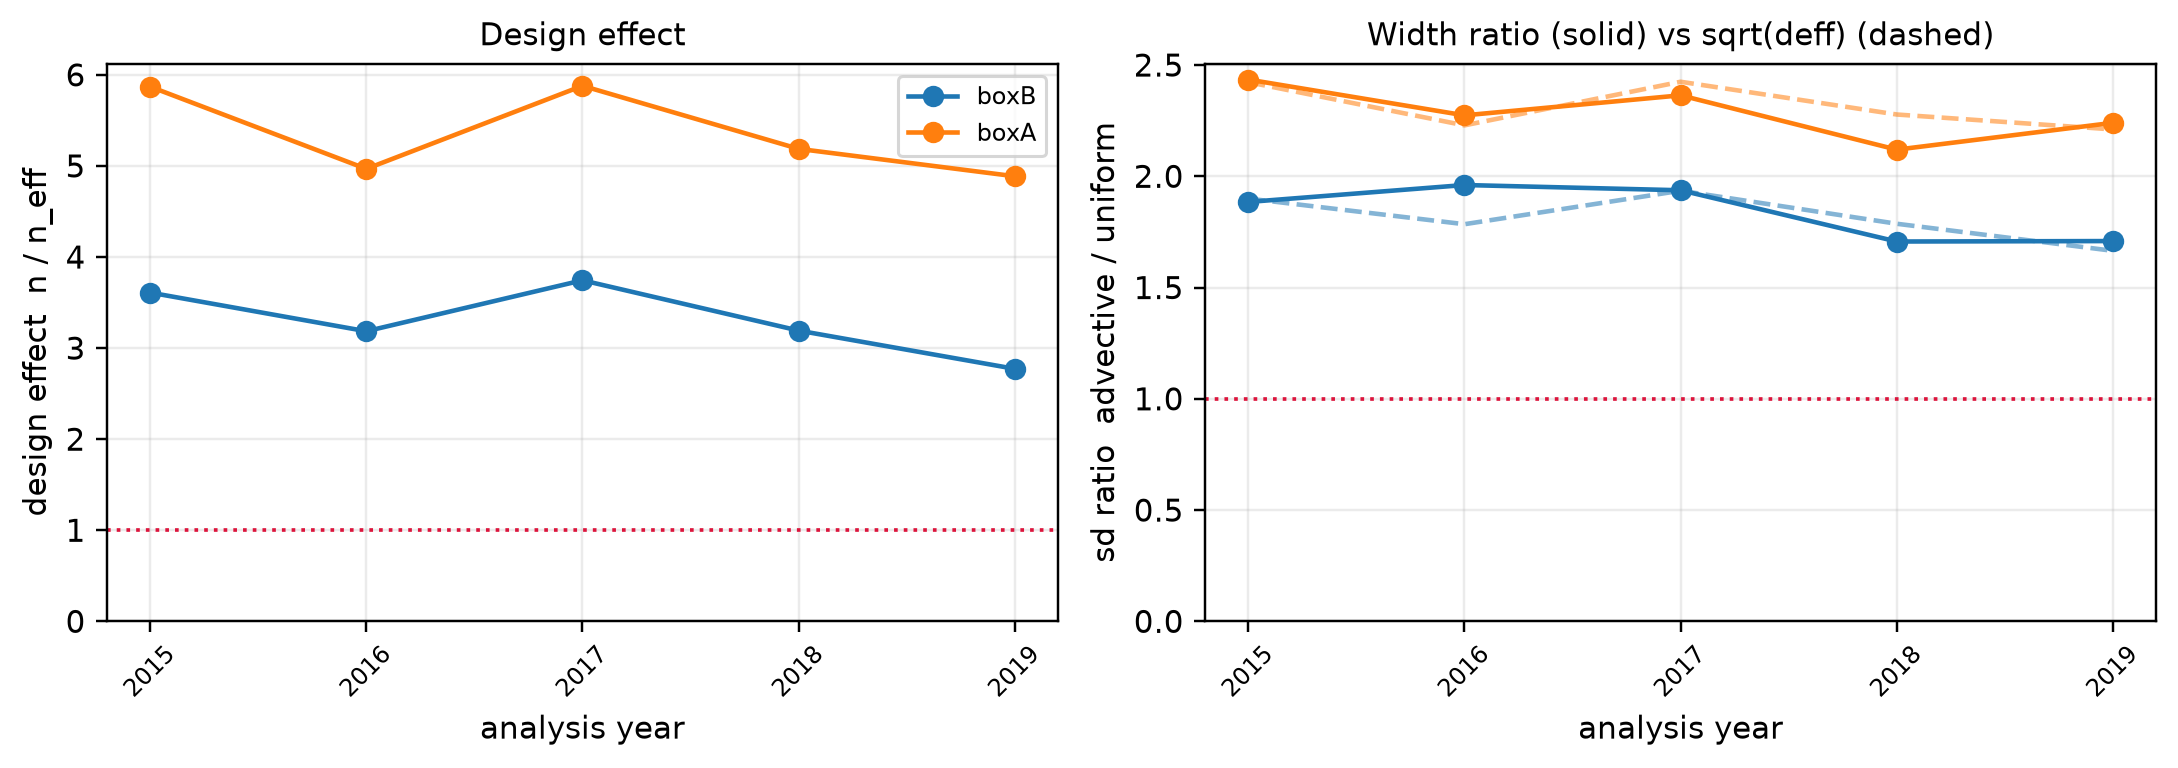
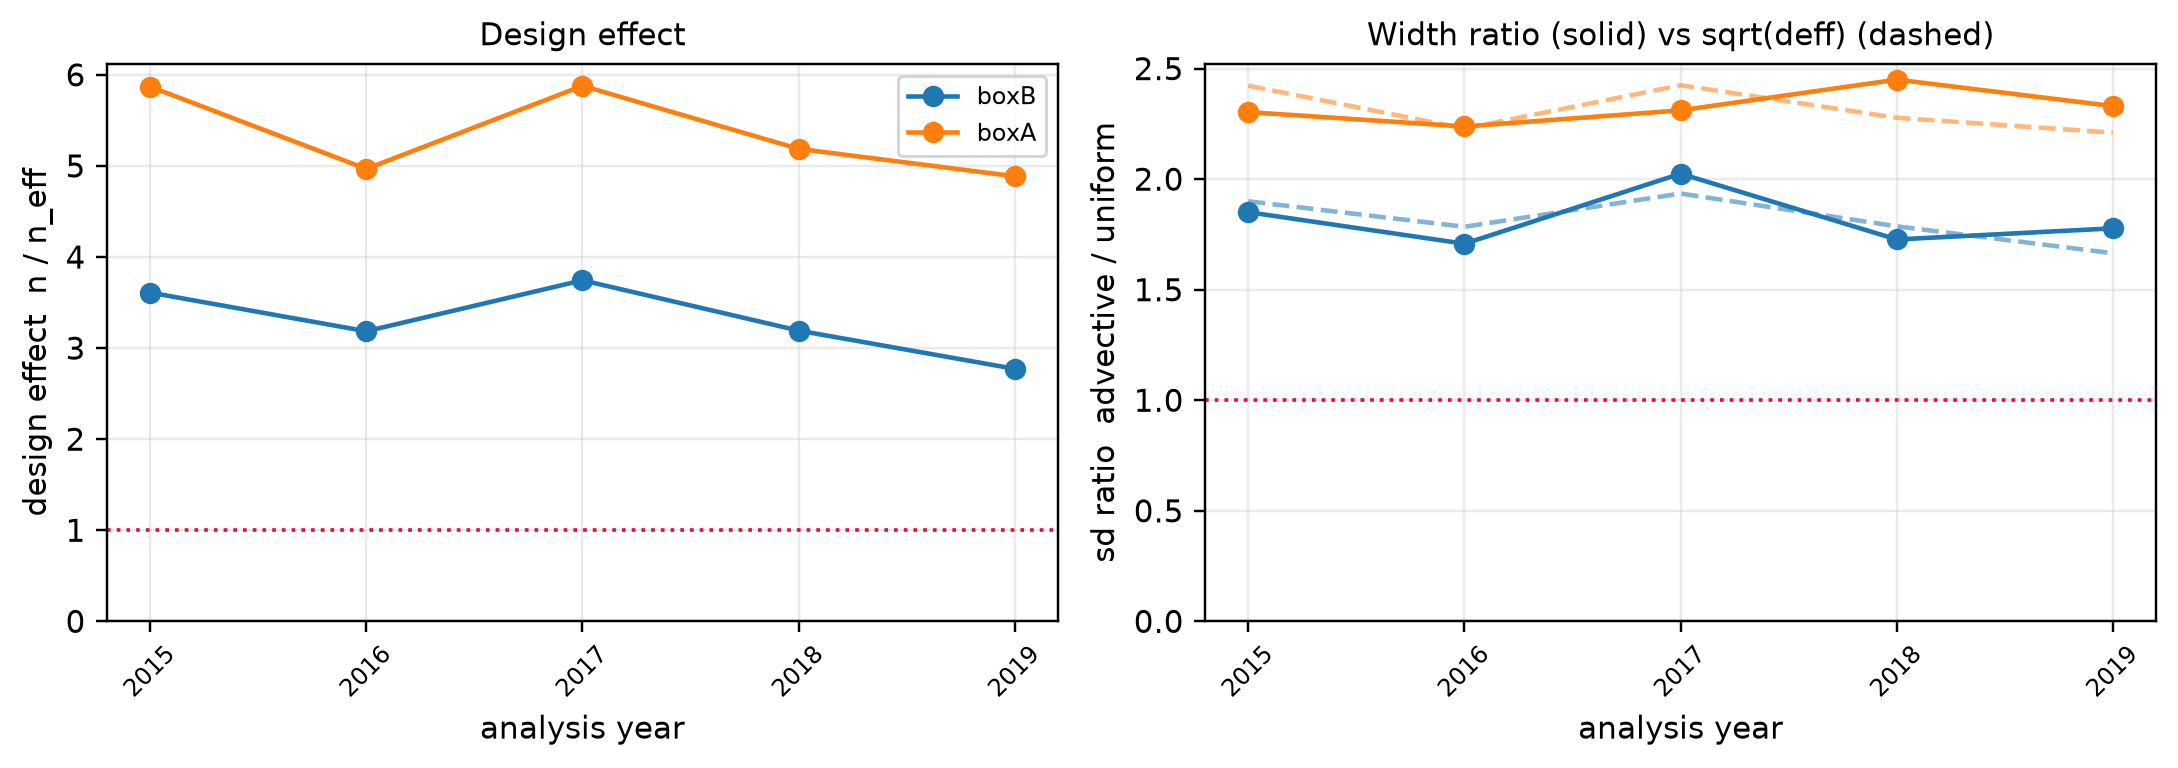
report: large n-matched uniform null so its 95% CI covers zero
The uniform reference was only 100 draws (one per advective rep), so its
per-year mean was a noisy estimate of zero that could land >1.96 se out by
its own MC noise. Add uniform_reference_ensemble: 2000 n-matched iid draws
from P per box-year (median n), a precise-zero null whose 95% CI covers
zero every year, with its 5-95% still the single-deployment scatter.

Thread this ref through the bias-interval chart, both bias tables, the
bias histograms, and the design-effect width ratio, and reword the
reference prose (Deployment, headline, sampling-bias) accordingly. The
100-realization limit now applies only to the advective side, where
resolution actually is limited.

diff --git a/code/osse/mean_mc.py b/code/osse/mean_mc.py
@@ -1880,12 +1880,18 @@ def _sd_Z(box):
     return pd.read_csv(os.path.join(cfg.OUT_DIR, f"domain_means_{box}.csv")).set_index("year")["sd_Z"]
 
 
-def continuous_bias_table(est, box):
-    """Per-year bias distribution over realizations, with the U-full null alongside."""
+def continuous_bias_table(est, box, ref=None):
+    """Per-year advective bias distribution, with the uniform-null mean alongside.
+
+    The `uniform mean B` column is the mean of the large `ref` ensemble when given,
+    else the aligned per-rep B_unif in `est`.
+    """
     sd = _sd_Z(box)
     rows = []
     for k, gk in est[est["box"] == box].groupby("year"):
         b = gk["B"].to_numpy()
+        um = (ref[(ref["box"] == box) & (ref["year"] == k)]["B_unif"].mean()
+              if ref is not None else gk["B_unif"].mean())
         rows.append({"year": int(k), "reps": b.size,
                      "mean B": b.mean() * J_TO_GJ,
                      "MC se": b.std(ddof=1) / np.sqrt(b.size) * J_TO_GJ,
@@ -1894,7 +1900,7 @@ def continuous_bias_table(est, box):
                      "95%": np.percentile(b, 95) * J_TO_GJ,
                      "P(B < 0)": float((b < 0).mean()),
                      "mean B / sd_k": b.mean() / sd[int(k)],
-                     "uniform mean B": gk["B_unif"].mean() * J_TO_GJ})
+                     "uniform mean B": um * J_TO_GJ})
     return pd.DataFrame(rows)
 
 
@@ -1931,6 +1937,31 @@ def continuous_nsize_table(est, boxes=("boxB", "boxA")):
     return pd.DataFrame(rows)
 
 
+def uniform_reference_ensemble(est, R=2000, seed=0):
+    """Large n-matched uniform null: R iid draws from P per (box, year), each at the
+    median advective sample size for that cell. E[B]=0, so the ensemble mean is a
+    precise zero reference (its 95% CI covers zero) and its 5-95% spread is the
+    single-deployment scatter of a uniform array. Returns box, year, B_unif (R rows
+    per group). Decoupled from the 100 advective reps, which are limited by the
+    advection cost; the null is not.
+    """
+    rng = np.random.default_rng(seed)
+    rows = []
+    for box in sorted(est["box"].unique()):
+        zf, wet, w = load_field(box)
+        yidx = {y: j for j, y in enumerate(_field_years(box))}
+        zbar = domain_means(zf, wet, w)[0].set_index("year")["zbar"]
+        cw = np.cumsum(w)
+        g = est[est["box"] == box]
+        for y in sorted(int(v) for v in g["year"].unique()):
+            n = int(np.median(g.loc[g["year"] == y, "n"].to_numpy()))
+            cells = wet[np.searchsorted(cw, rng.random(R * n)).clip(max=len(w) - 1)].reshape(R, n)
+            d = rng.integers(0, cfg.DAYS_PER_YEAR, (R, n))
+            b = zf[yidx[y]][d, cells].mean(axis=1) - zbar[y]
+            rows += [(box, y, float(v)) for v in b]
+    return pd.DataFrame(rows, columns=["box", "year", "B_unif"])
+
+
 def continuous_pilot_size_table(est, boxes=("boxB", "boxA")):
     """Per box/year pilot sample sizes: mean in-box standing stock and distinct
     floats per realization, mean profile observations per realization, and the
@@ -1948,12 +1979,13 @@ def continuous_pilot_size_table(est, boxes=("boxB", "boxA")):
     return pd.DataFrame(rows)
 
 
-def continuous_deff_table(tag="_pilot", boxes=("boxB", "boxA")):
+def continuous_deff_table(tag="_pilot", boxes=("boxB", "boxA"), ref=None):
     """Float-clustered design effect and advective/uniform width ratio, per box/year.
 
     The design effect re-gathers the saved profile positions against the residual
     field; the width ratio is the advective across-realization sd(B) against the
-    n-matched uniform sd(B), read straight from the estimate frame.
+    n-matched uniform sd(B) (from the large `ref` ensemble when given, else the
+    aligned per-rep B_unif).
     """
     from osse import sample_residuals as sr
     est = load_continuous(tag)
@@ -1979,18 +2011,22 @@ def continuous_deff_table(tag="_pilot", boxes=("boxB", "boxA")):
                 cl = pd.Series(z0).groupby(gr["float_id"].to_numpy()).sum().to_numpy()
                 deffs.append(float((cl ** 2).sum()) / ss)
             ek = e[e["year"] == k]
+            su = (ref[(ref["box"] == b) & (ref["year"] == k)]["B_unif"].std(ddof=1)
+                  if ref is not None else ek["B_unif"].std(ddof=1))
             rows.append({"box": b, "year": int(k),
                          "median design effect": float(np.median(deffs)),
                          "sd B advective": ek["B"].std(ddof=1) * J_TO_GJ,
-                         "sd B uniform": ek["B_unif"].std(ddof=1) * J_TO_GJ,
-                         "ratio": ek["B"].std(ddof=1) / ek["B_unif"].std(ddof=1)})
+                         "sd B uniform": su * J_TO_GJ,
+                         "ratio": ek["B"].std(ddof=1) / su})
     return pd.DataFrame(rows)
 
 
-def plot_continuous_bias(est, box, figsize=(13, 3.0)):
-    """Bias distribution over realizations, one panel per year; U-full null overlaid."""
+def plot_continuous_bias(est, box, ref=None, figsize=(13, 3.0)):
+    """Bias distribution over realizations, one panel per year; uniform null overlaid
+    (from the large `ref` ensemble when given, else the aligned per-rep B_unif)."""
     import matplotlib.pyplot as plt
     g = est[est["box"] == box]
+    gu = ref[ref["box"] == box] if ref is not None else g
     years = sorted(int(y) for y in g["year"].unique())
     allB = g["B"].to_numpy() * J_TO_GJ
     lo, hi = np.percentile(allB, [0.5, 99.5])
@@ -2000,8 +2036,8 @@ def plot_continuous_bias(est, box, figsize=(13, 3.0)):
     for ax, k in zip(np.atleast_1d(axes), years):
         gk = g[g["year"] == k]
         ax.hist(gk["B"] * J_TO_GJ, bins=bins, density=True, color="0.35")
-        ax.hist(gk["B_unif"] * J_TO_GJ, bins=bins, density=True, histtype="step",
-                color="tab:blue", lw=1.2, ls="--")
+        ax.hist(gu[gu["year"] == k]["B_unif"] * J_TO_GJ, bins=bins, density=True,
+                histtype="step", color="tab:blue", lw=1.2, ls="--")
         ax.axvline(0.0, color="crimson", lw=1.6)
         ax.axvline(gk["B"].mean() * J_TO_GJ, color="k", lw=1.4, ls=":")
         ax.set_title(str(k), fontsize=10)
@@ -2012,25 +2048,27 @@ def plot_continuous_bias(est, box, figsize=(13, 3.0)):
     return fig
 
 
-def plot_bias_intervals(est, boxes=("boxB", "boxA"), figsize=(11, 4.0)):
-    """Headline bias chart: per year, dodged intervals for the advective and the
-    n-matched uniform sampling bias, one panel per box (own y-axis).
+def plot_bias_intervals(est, ref, boxes=("boxB", "boxA"), figsize=(11, 4.0)):
+    """Headline bias chart: per year, dodged intervals for the advective bias (from
+    `est`, 100 realizations) and the uniform null (from `ref`, the large n-matched
+    ensemble), one panel per box (own y-axis).
 
-    For each (box, year, method): point = ensemble mean; capped bar = 95% CI
+    For each (box, year, source): point = ensemble mean; capped bar = 95% CI
     (mean +/- 1.96 MC se), so an interval clearing zero flags a mean distinguishable
-    from zero at the 5% level; thin whisker = 5-95% of realizations (the scatter of
-    a single deployment). Red line at 0 is the target.
+    from zero at the 5% level; thin whisker = 5-95% (the scatter of a single
+    deployment). Red line at 0 is the target.
     """
     import matplotlib.pyplot as plt
     from matplotlib.lines import Line2D
     fig, axes = plt.subplots(1, len(boxes), figsize=figsize)
-    methods = [("B", "0.35", "advective", -0.15), ("B_unif", "tab:blue", "uniform (P)", 0.15)]
+    sources = [(est, "B", "0.35", "advective", -0.15),
+               (ref, "B_unif", "tab:blue", "uniform (P)", 0.15)]
     for ax, box in zip(np.atleast_1d(axes), boxes):
-        g = est[est["box"] == box]
-        years = sorted(int(y) for y in g["year"].unique())
-        for col, color, _lab, dx in methods:
+        years = sorted(int(y) for y in est.loc[est["box"] == box, "year"].unique())
+        for src, col, color, _lab, dx in sources:
+            gs = src[src["box"] == box]
             for y in years:
-                b = g.loc[g["year"] == y, col].to_numpy() * J_TO_GJ
+                b = gs.loc[gs["year"] == y, col].to_numpy() * J_TO_GJ
                 m, se = b.mean(), b.std(ddof=1) / np.sqrt(b.size)
                 q05, q95 = np.percentile(b, [5, 95])
                 x = y + dx
@@ -2043,7 +2081,8 @@ def plot_bias_intervals(est, boxes=("boxB", "boxA"), figsize=(11, 4.0)):
         ax.set_title(box, fontsize=10)
         ax.set_xlabel("analysis year", fontsize=9)
     np.atleast_1d(axes)[0].set_ylabel("sampling bias B (GJ/m2)")
-    handles = [Line2D([0], [0], color=c, lw=1.4, marker="o", label=l) for _, c, l, _ in methods]
+    handles = [Line2D([0], [0], color=c, lw=1.4, marker="o", label=l)
+               for _, _, c, l, _ in sources]
     np.atleast_1d(axes)[0].legend(handles=handles, fontsize=8, loc="best")
     fig.tight_layout()
     return fig
